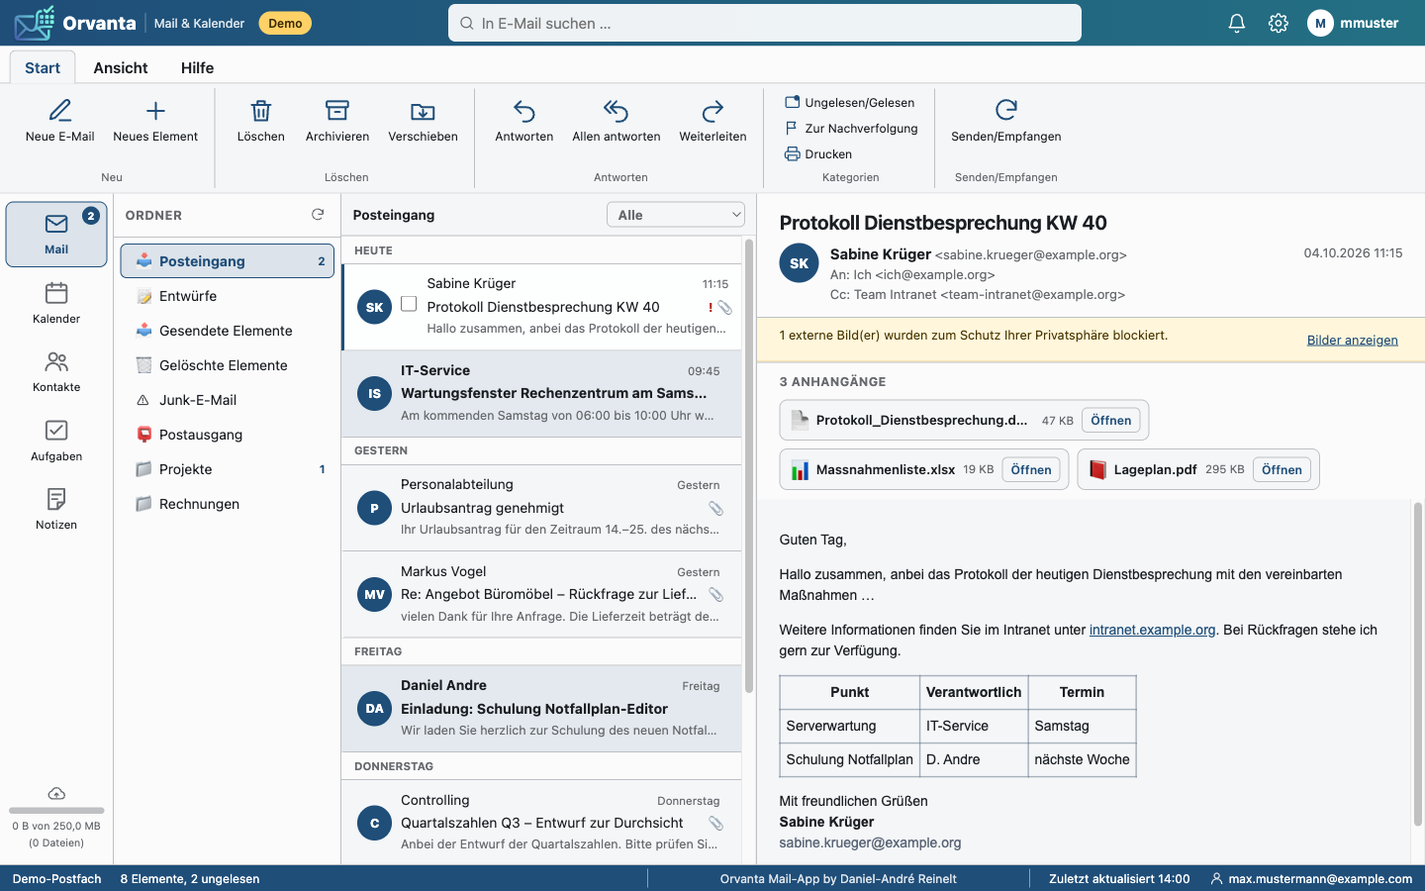
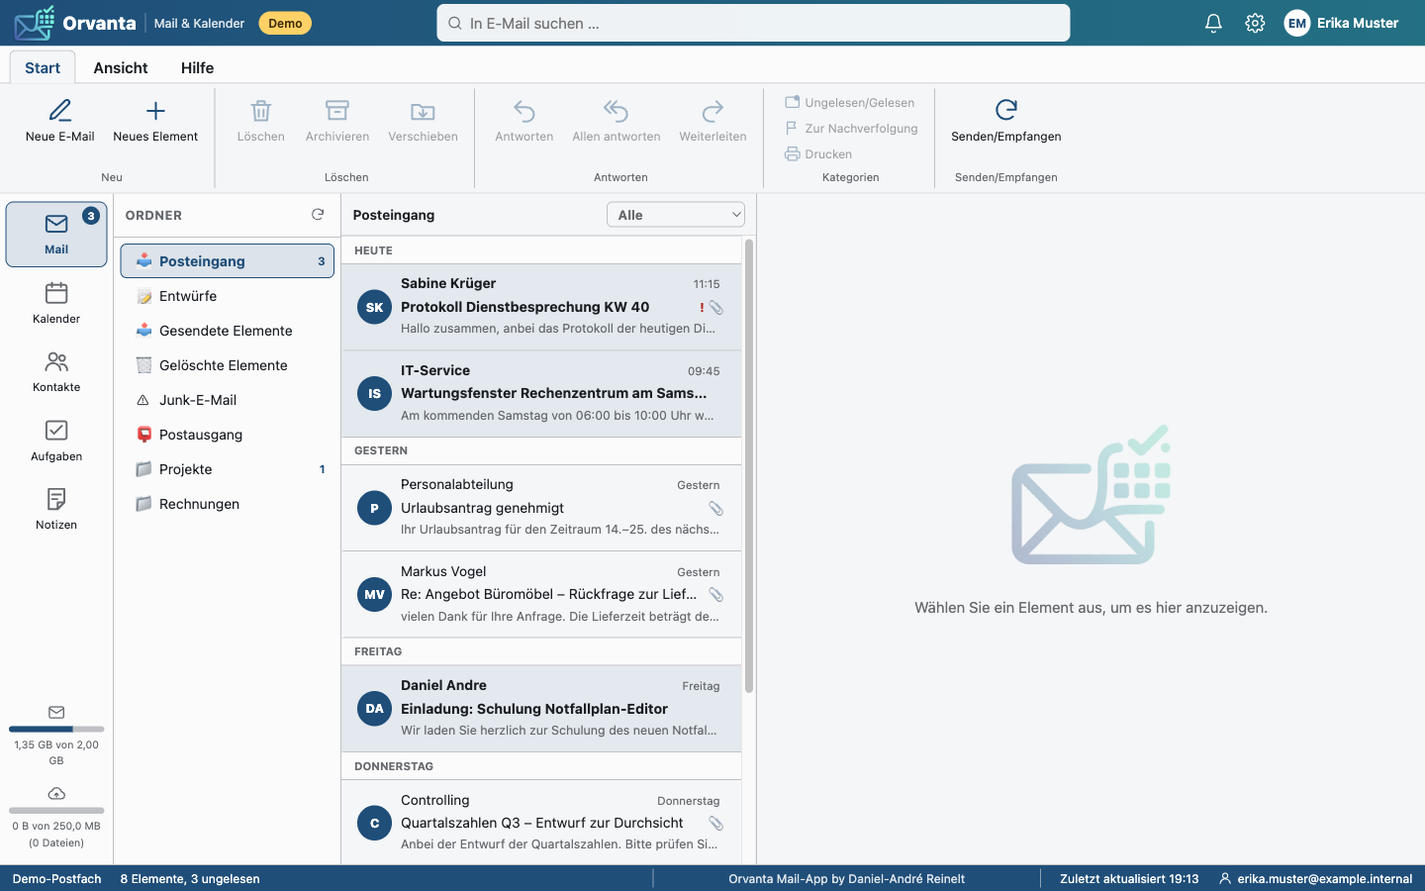
Orvanta: Postfachbelegung des Exchange in der Speicheranzeige
Die Speicheranzeige unten links zeigt neben dem Anhang-Zwischenspeicher
jetzt auch die Belegung des Exchange-Postfachs (PR_MESSAGE_SIZE_EXTENDED
am Stammordner gegen Sende-/Empfangsgrenze bzw. Warnschwelle). Der
Einstellungsdialog nennt die einzelnen Grenzen. Große Quota-Balken im
Dialog waren durch einen CSS-Konflikt unsichtbar und sind nun sichtbar.

diff --git a/public/assets/js/orvanta.js b/public/assets/js/orvanta.js
@@ -351,6 +351,9 @@
 
     function fmtBytes(bytes) {
         bytes = Number(bytes) || 0;
+        if (bytes >= 1073741824) {
+            return (bytes / 1073741824).toFixed(2).replace('.', ',') + ' GB';
+        }
         if (bytes >= 1048576) {
             return (bytes / 1048576).toFixed(1).replace('.', ',') + ' MB';
         }
@@ -3107,7 +3110,7 @@
 
     function loadQuota() {
         return api('/zwischenspeicher').then(renderQuota).catch(function () {
-            $$('[data-ov-quota-text]').forEach(function (node) {
+            $$('[data-ov-quota-text], [data-ov-mailbox-text]').forEach(function (node) {
                 node.textContent = 'Nicht verfügbar';
             });
         });
@@ -3122,6 +3125,48 @@
         $$('[data-ov-quota-text]').forEach(function (node) {
             node.textContent = fmtBytes(usage.used) + ' von ' + fmtBytes(usage.quota) + ' (' + usage.items + ' Datei' + (usage.items === 1 ? '' : 'en') + ')';
         });
+        renderMailboxUsage(usage.mailbox);
+    }
+
+    // Postfachbelegung auf dem Exchange (Groesse aller Ordner, Sendegrenze)
+    function renderMailboxUsage(mailbox) {
+        var detail = $('[data-ov-mailbox-detail]');
+        if (!mailbox) {
+            $$('[data-ov-mailbox-fill]').forEach(function (node) {
+                node.style.width = '0';
+            });
+            $$('[data-ov-mailbox-text]').forEach(function (node) {
+                node.textContent = 'Nicht verfügbar';
+            });
+            if (detail) {
+                detail.hidden = true;
+            }
+            return;
+        }
+        var limit = Number(mailbox.quota) || Number(mailbox.receive_limit) || Number(mailbox.warning) || 0;
+        var percent = Math.max(0, Math.min(100, Number(mailbox.percent) || 0));
+        var text = limit > 0 ? fmtBytes(mailbox.used) + ' von ' + fmtBytes(limit) : fmtBytes(mailbox.used) + ' (ohne Grenze)';
+        $$('[data-ov-mailbox-fill]').forEach(function (node) {
+            node.style.width = (limit > 0 ? percent : 0) + '%';
+            node.classList.toggle('ov-quota__fill--warn', limit > 0 && percent >= 80);
+        });
+        $$('[data-ov-mailbox-text]').forEach(function (node) {
+            node.textContent = text;
+        });
+        if (detail) {
+            var parts = [];
+            if (Number(mailbox.warning) > 0) {
+                parts.push('Warnung ab ' + fmtBytes(mailbox.warning));
+            }
+            if (Number(mailbox.quota) > 0) {
+                parts.push('Senden gesperrt ab ' + fmtBytes(mailbox.quota));
+            }
+            if (Number(mailbox.receive_limit) > 0) {
+                parts.push('Empfang gesperrt ab ' + fmtBytes(mailbox.receive_limit));
+            }
+            detail.textContent = parts.join(' · ');
+            detail.hidden = parts.length === 0;
+        }
     }
 
     function clearCache() {

diff --git a/public/assets/css/orvanta.css b/public/assets/css/orvanta.css
@@ -573,8 +573,11 @@
 .ov-noteeditor__foot { display: flex; align-items: center; justify-content: space-between; gap: .8rem; padding: .5rem 1rem; border-top: 1px solid rgba(0, 0, 0, .1); background: rgba(255, 255, 255, .45); }
 .ov-noteeditor__meta { font-size: .78rem; opacity: .8; }
 
-/* Zwischenspeicher-Quota */
+/* Speicheranzeigen (Postfach, Zwischenspeicher-Quota) */
 .ov-quota { display: flex; flex-direction: column; gap: .25rem; width: 100%; }
+.ov-quota--large { flex-direction: row; }
+.ov-quota--large .ov-quota__bar { flex: 1 1 auto; }
+.ov-quota--large > span:last-child { white-space: nowrap; }
 .ov-quota__text { font-size: .66rem; color: var(--ov-muted); }
 .ov-quota--large .ov-quota__text { font-size: .85rem; }
 .ov-quota__fill--warn { background: #d97706; }

diff --git a/app/Services/Orvanta/OrvantaExchangeService.php b/app/Services/Orvanta/OrvantaExchangeService.php
@@ -66,6 +66,48 @@ final class OrvantaExchangeService
         ];
     }
 
+    /**
+     * Belegung des Postfachs auf dem Exchange: Groesse aller Elemente
+     * (PR_MESSAGE_SIZE_EXTENDED am Stammordner) sowie die vom Server
+     * gesetzten Grenzen „Warnung“ (PR_STORAGE_QUOTA_LIMIT), „Senden
+     * verbieten“ (PR_PROHIBIT_SEND_QUOTA) und „Empfang verbieten“
+     * (PR_PROHIBIT_RECEIVE_QUOTA), jeweils in Byte. 0 = keine Grenze bekannt.
+     *
+     * @return array{used:int,quota:int,warning:int,receive_limit:int,percent:int}
+     */
+    public function mailboxUsage(string $user): array
+    {
+        $xpath = $this->call(
+            '<m:GetFolder><m:FolderShape><t:BaseShape>IdOnly</t:BaseShape><t:AdditionalProperties>'
+            . '<t:ExtendedFieldURI PropertyTag="0x0E08" PropertyType="Long"/>'
+            . '<t:ExtendedFieldURI PropertyTag="0x3FF5" PropertyType="Integer"/>'
+            . '<t:ExtendedFieldURI PropertyTag="0x666E" PropertyType="Integer"/>'
+            . '<t:ExtendedFieldURI PropertyTag="0x666A" PropertyType="Integer"/>'
+            . '</t:AdditionalProperties></m:FolderShape><m:FolderIds><t:DistinguishedFolderId Id="root"/></m:FolderIds></m:GetFolder>',
+            $user
+        );
+        $values = [];
+        foreach (EwsXml::elements($xpath, '//t:Folder/t:ExtendedProperty') as $property) {
+            // Exchange schreibt Tags ohne fuehrende Nullen (z. B. "0xe08")
+            $tag = (int) hexdec(ltrim(strtolower(EwsXml::attr($xpath, 't:ExtendedFieldURI', 'PropertyTag', $property)), 'x0'));
+            $values[$tag] = max(0, (int) EwsXml::text($xpath, 't:Value', $property));
+        }
+        $used = $values[0x0E08] ?? 0;
+        // Quota-Werte liefert Exchange in Kilobyte
+        $warning = ($values[0x3FF5] ?? 0) * 1024;
+        $quota = ($values[0x666E] ?? 0) * 1024;
+        $receive = ($values[0x666A] ?? 0) * 1024;
+        $limit = $quota > 0 ? $quota : ($receive > 0 ? $receive : $warning);
+
+        return [
+            'used' => $used,
+            'quota' => $quota,
+            'warning' => $warning,
+            'receive_limit' => $receive,
+            'percent' => $limit > 0 ? (int) min(100, round($used * 100 / $limit)) : 0,
+        ];
+    }
+
     // ------------------------------------------------------------------
     // Ordner
     // ------------------------------------------------------------------

diff --git a/app/Services/Orvanta/DemoExchangeTransport.php b/app/Services/Orvanta/DemoExchangeTransport.php
@@ -20,6 +20,7 @@ final class DemoExchangeTransport implements ExchangeTransportInterface
     public function post(string $url, string $xml, array $options): array
     {
         $body = match (true) {
+            str_contains($xml, '<m:GetFolder>') && str_contains($xml, 'DistinguishedFolderId Id="root"/>') => $this->mailboxUsage(),
             str_contains($xml, '<m:GetFolder>') && str_contains($xml, 'DistinguishedFolderId Id="inbox"/></m:FolderIds>') && !str_contains($xml, 'Id="drafts"') => $this->getInbox(),
             str_contains($xml, '<m:GetFolder>') => $this->getKnownFolders(),
             str_contains($xml, '<m:FindFolder') => $this->findFolders(),
@@ -60,6 +61,17 @@ final class DemoExchangeTransport implements ExchangeTransportInterface
         };
 
         return $this->envelope('<m:CreateItemResponse><m:ResponseMessages><m:CreateItemResponseMessage ResponseClass="Success"><m:ResponseCode>NoError</m:ResponseCode><m:Items><t:' . $type . '><t:ItemId Id="demo-new-' . substr(sha1($xml), 0, 8) . '" ChangeKey="CK1"/></t:' . $type . '></m:Items></m:CreateItemResponseMessage></m:ResponseMessages></m:CreateItemResponse>');
+    }
+
+    private function mailboxUsage(): string
+    {
+        // 1,35 GB belegt; Warnung 1,9 GB, Senden gesperrt ab 2 GB, Empfang ab 2,3 GB (Werte in KB)
+        return $this->envelope('<m:GetFolderResponse><m:ResponseMessages><m:GetFolderResponseMessage ResponseClass="Success"><m:ResponseCode>NoError</m:ResponseCode><m:Folders><t:Folder><t:FolderId Id="demo-root" ChangeKey="A"/>'
+            . '<t:ExtendedProperty><t:ExtendedFieldURI PropertyTag="0xe08" PropertyType="Long"/><t:Value>1449551462</t:Value></t:ExtendedProperty>'
+            . '<t:ExtendedProperty><t:ExtendedFieldURI PropertyTag="0x3ff5" PropertyType="Integer"/><t:Value>1992294</t:Value></t:ExtendedProperty>'
+            . '<t:ExtendedProperty><t:ExtendedFieldURI PropertyTag="0x666e" PropertyType="Integer"/><t:Value>2097152</t:Value></t:ExtendedProperty>'
+            . '<t:ExtendedProperty><t:ExtendedFieldURI PropertyTag="0x666a" PropertyType="Integer"/><t:Value>2411724</t:Value></t:ExtendedProperty>'
+            . '</t:Folder></m:Folders></m:GetFolderResponseMessage></m:ResponseMessages></m:GetFolderResponse>');
     }
 
     private function getInbox(): string

diff --git a/views/orvanta/index.php b/views/orvanta/index.php
@@ -182,6 +182,11 @@ $initials = mb_substr($initials !== '' ? $initials : '?', 0, 2);
                 </button>
             <?php } ?>
             <div class="ov-modules__spacer"></div>
+            <div class="ov-modules__quota" data-ov-mailbox title="Belegung des Postfachs auf dem Exchange-Server">
+                <?= $icon('mail') ?>
+                <span class="ov-quota__bar"><span class="ov-quota__fill" data-ov-mailbox-fill></span></span>
+                <span class="ov-quota__text" data-ov-mailbox-text>–</span>
+            </div>
             <div class="ov-modules__quota" data-ov-quota title="Zwischenspeicher für Anhänge im Nextcloud-Bereich">
                 <?= $icon('cloud') ?>
                 <span class="ov-quota__bar"><span class="ov-quota__fill" data-ov-quota-fill></span></span>
@@ -400,6 +405,10 @@ $initials = mb_substr($initials !== '' ? $initials : '?', 0, 2);
         <div class="ov-dialog__form">
             <div class="ov-dialog__head"><h2><?= $icon('settings') ?> Einstellungen</h2><button type="button" class="ov-mini ov-mini--light" data-ov-dialog-close aria-label="Schließen"><?= $icon('close') ?></button></div>
             <div class="ov-dialog__body ov-settings">
+                <h3>Postfach auf dem Exchange-Server</h3>
+                <p class="ov-muted">Belegter Speicher Ihres Postfachs (alle Ordner) und die vom Server gesetzte Grenze. Bei Erreichen der Grenze können keine E-Mails mehr gesendet werden.</p>
+                <div class="ov-quota ov-quota--large"><span class="ov-quota__bar"><span class="ov-quota__fill" data-ov-mailbox-fill></span></span><span data-ov-mailbox-text>–</span></div>
+                <p class="ov-muted" data-ov-mailbox-detail hidden></p>
                 <h3>Zwischenspeicher für Anhänge</h3>
                 <p class="ov-muted">Geöffnete Anhänge werden in Ihrem Nextcloud-Bereich im Ordner <code><?= Html::e((string) $orvanta['cacheFolder']) ?>/Zwischenspeicher</code> abgelegt. Bei Erreichen des Quotas werden die ältesten Dateien automatisch entfernt.</p>
                 <div class="ov-quota ov-quota--large"><span class="ov-quota__bar"><span class="ov-quota__fill" data-ov-quota-fill></span></span><span data-ov-quota-text>–</span></div>

diff --git a/tests/Unit/OrvantaServiceTest.php b/tests/Unit/OrvantaServiceTest.php
@@ -379,6 +379,27 @@ Runner::test('Orvanta: Kalender, Kontakte, Aufgaben und Notizen liefern Elemente
     Assert::contains('Raum 1', $parts['transport']->last());
 });
 
+Runner::test('Orvanta: Postfachbelegung wird aus dem Stammordner gelesen (Quota in KB)', function (): void {
+    $parts = orvantaExchange();
+    $usage = $parts['exchange']->mailboxUsage('demo@demo.local');
+    Assert::contains('DistinguishedFolderId Id="root"', $parts['transport']->last());
+    Assert::contains('PropertyTag="0x0E08"', $parts['transport']->last());
+    Assert::same(1449551462, $usage['used']);
+    Assert::same(2097152 * 1024, $usage['quota']);
+    Assert::same(1992294 * 1024, $usage['warning']);
+    Assert::same(2411724 * 1024, $usage['receive_limit']);
+    Assert::same(67, $usage['percent']);
+
+    // Ohne Grenzen: nur Groesse, Prozent 0
+    $parts['transport']->forced = ['status' => 200, 'error' => null, 'body' => '<?xml version="1.0"?><s:Envelope xmlns:s="http://schemas.xmlsoap.org/soap/envelope/"><s:Body xmlns:m="http://schemas.microsoft.com/exchange/services/2006/messages" xmlns:t="http://schemas.microsoft.com/exchange/services/2006/types">'
+        . '<m:GetFolderResponse><m:ResponseMessages><m:GetFolderResponseMessage ResponseClass="Success"><m:ResponseCode>NoError</m:ResponseCode><m:Folders><t:Folder><t:FolderId Id="r" ChangeKey="A"/>'
+        . '<t:ExtendedProperty><t:ExtendedFieldURI PropertyTag="0xe08" PropertyType="Long"/><t:Value>4096</t:Value></t:ExtendedProperty></t:Folder></m:Folders></m:GetFolderResponseMessage></m:ResponseMessages></m:GetFolderResponse></s:Body></s:Envelope>'];
+    $usage = $parts['exchange']->mailboxUsage('demo@demo.local');
+    Assert::same(4096, $usage['used']);
+    Assert::same(0, $usage['quota']);
+    Assert::same(0, $usage['percent']);
+});
+
 Runner::test('Orvanta: EwsXml-Hilfsfunktionen', function (): void {
     Assert::same('<t:DistinguishedFolderId Id="inbox"/>', EwsXml::folderId('inbox'));
     Assert::contains('<t:FolderId Id="AAMk', EwsXml::folderId('AAMkAGI2'));

diff --git a/app/Controllers/OrvantaApiController.php b/app/Controllers/OrvantaApiController.php
@@ -199,7 +199,7 @@ final class OrvantaApiController extends Controller
 
     public function cacheUsage(Request $request): Response
     {
-        return $this->handle($request, fn (array $access): array => Container::orvantaAttachments()->usage($access['uid']));
+        return $this->handle($request, fn (array $access): array => Container::orvantaAttachments()->usage($access['uid']) + ['mailbox' => $this->mailboxUsage($access)]);
     }
 
     public function cacheClear(Request $request): Response
@@ -207,8 +207,24 @@ final class OrvantaApiController extends Controller
         return $this->handle($request, function (array $access): array {
             $removed = Container::orvantaAttachments()->clear($access['uid']);
 
-            return Container::orvantaAttachments()->usage($access['uid']) + ['removed' => $removed, 'message' => 'Der Zwischenspeicher wurde geleert.'];
+            return Container::orvantaAttachments()->usage($access['uid']) + ['mailbox' => $this->mailboxUsage($access), 'removed' => $removed, 'message' => 'Der Zwischenspeicher wurde geleert.'];
         }, true);
+    }
+
+    /**
+     * Postfachbelegung auf dem Exchange; Fehler blockieren die Anzeige des
+     * Zwischenspeichers nicht (null = nicht ermittelbar).
+     *
+     * @param array<string,mixed> $access
+     * @return array{used:int,quota:int,warning:int,receive_limit:int,percent:int}|null
+     */
+    private function mailboxUsage(array $access): ?array
+    {
+        try {
+            return Container::orvantaExchange()->mailboxUsage($access['impersonate']);
+        } catch (Throwable) {
+            return null;
+        }
     }
 
     // ------------------------------------------------------------------

diff --git a/docs/orvanta-referenz.md b/docs/orvanta-referenz.md
@@ -141,7 +141,7 @@ Alle App- und API-Routen liegen **außerhalb** der Admin-Gruppen in
 | POST | `/api/orvanta/mail/aktion` | `mailAction` | `action` = `read`/`unread`/`flag`/`unflag`/`move`/`delete`/`delete_permanent` |
 | POST | `/api/orvanta/anhang/link` | `attachmentLink` | Signierte URL + Öffnungsmodus |
 | POST | `/api/orvanta/anhang/nextcloud` | `attachmentToNextcloud` | Dauerhaft in Nextcloud speichern |
-| GET | `/api/orvanta/zwischenspeicher` | `cacheUsage` | Belegung |
+| GET | `/api/orvanta/zwischenspeicher` | `cacheUsage` | Belegung Zwischenspeicher + Postfach (`mailbox`) |
 | POST | `/api/orvanta/zwischenspeicher/leeren` | `cacheClear` | Zwischenspeicher leeren |
 | GET | `/api/orvanta/kalender?start=&end=` | `calendar` | Termine im Zeitraum (≤ 100 Tage) |
 | GET / POST | `/api/orvanta/kalender/termin` | `event` / `saveEvent` | Termin lesen / anlegen oder ändern |
@@ -280,6 +280,7 @@ Vorprüfungen des Service als 422/404).
 | Methode | EWS-Operation | Besonderheiten |
 | --- | --- | --- |
 | `testConnection()` | `GetFolder` inbox | ohne Impersonation = Dienstkonto selbst; liest `ServerVersionInfo` |
+| `mailboxUsage()` | `GetFolder` `root` mit `ExtendedFieldURI` `0x0E08` (PR_MESSAGE_SIZE_EXTENDED, Byte), `0x3FF5` (PR_STORAGE_QUOTA_LIMIT), `0x666E` (PR_PROHIBIT_SEND_QUOTA), `0x666A` (PR_PROHIBIT_RECEIVE_QUOTA; alle in KB) | Tags werden per `hexdec()` normalisiert (Exchange schreibt `0xe08`); `percent` gegen Sendegrenze, ersatzweise Empfangsgrenze, dann Warnschwelle; fehlende Grenzen = 0 |
 | `folders()` | `GetFolder` (Systemordner, `$strict = false`) + `FindFolder` Deep ab `msgfolderroot` (≤ 500) | nur `FolderClass` `IPF.Note*`; Sortierung Systemordner (`MAIL_FOLDERS`) vor Namen |
 | `messages()` | `FindItem` Shallow, `IndexedPageItemView`, absteigend nach `DateTimeReceived`, optional `QueryString` (AQS) | `limit` 1–200 (API: 1–100), `has_more` aus `IncludesLastItemInRange` |
 | `message()` | `GetItem` mit `BodyType = HTML` | Text-Body → `nl2br(htmlspecialchars())`, sonst `MailHtmlSanitizer::clean()`; externe Bilder landen in `data-blocked-src`, eingebettete in `data-cid` (Anhänge liefern `content_id`) |
@@ -329,7 +330,8 @@ Vorprüfungen des Service als 422/404).
 | `mail/aktion` | `action, ids[]` (oder `id`), bei `move` zusätzlich `folder` | `{ok, count}` |
 | `anhang/link` | `attachment_id, name` | `{url, mode, expires_in}` |
 | `anhang/nextcloud` | `attachment_id, folder` (optionaler Unterordner) | `{ok, message, path, target}` (Fehler → 502) |
-| `kalender` | Query `start`, `end` (Standard: aktuelle Woche) | `{items[], start, end}`; Element: `id, change_key, subject, start, end, all_day, location, organizer, free_busy, type, reminder_set, reminder_minutes, is_meeting, my_response, categories` |
+| `zwischenspeicher` | – | `{used, quota, items, folder, percent, mailbox}`; `mailbox` = `{used, quota, warning, receive_limit, percent}` in Byte oder `null`, wenn Exchange die Werte nicht liefert (Fehler blockieren die Antwort nicht) |
+| `zwischenspeicher/leeren` | – | wie `zwischenspeicher` + `{removed, message}` | Query `start`, `end` (Standard: aktuelle Woche) | `{items[], start, end}`; Element: `id, change_key, subject, start, end, all_day, location, organizer, free_busy, type, reminder_set, reminder_minutes, is_meeting, my_response, categories` |
 | `kalender/termin` (POST) | `id` (leer = neu), `change_key, subject, start, end, all_day, location, body, reminder` (Standard 15, < 0 = aus), `free_busy, required[], optional[]` | `{id[, change_key], message}`; löst `resync()` aus |
 | `kontakte/kontakt` (POST) | `id, given_name, surname, company, job_title, department, email, phone, mobile, notes` | `{id, message}` |
 | `aufgaben/aufgabe` (POST) | `id, subject, body, importance, status` und optional `due, start, reminder, percent` (Unix-Sekunden bzw. %) | `{id, message}` |
@@ -618,7 +620,7 @@ Dependency-freier Runner: `php tests/run.php` (Syntaxprüfung zusätzlich
 | --- | --- |
 | `tests/Unit/OrvantaAiTest.php` | `RecordingAiTransport`; Verfügbarkeit ohne Konfiguration (keine Anfrage), `GET /models` mit Datei-Cache und Fingerabdruck (URL\|Modell), `improve()` (Anfrageaufbau, Kontext, Token, `max_tokens`), Verfeinern (Assistenten-Turn), Bearer-Schlüssel, Validierung 422, 503 ohne KI, 502 bei Timeout/500/401/ungültigem JSON/leeren `choices`, `stripMarkers()`, Zähler und pseudonyme Auswertung (keine SIDs), `OrvantaAiCharts` (Zeitraum, SVG ohne `style`, leere Daten) |
 | `tests/Unit/OrvantaSignatureTest.php` | Validierung (Pflichtfelder, Modus, Reihenfolge, Gruppen-Dedupe, Präfix-Leerzeichen), Speichern/Laden/Löschen, Zuordnung (Reihenfolge, inaktiv, Schreibweise), Darstellung (AD-Daten, Präfix + Durchwahl vs. komplette Rufnummer, Farben, Logo als `data:`-URI, Sanitizer-Durchlauf), Fallbacks (ohne Logo/Telefonbuch/inaktiver Eintrag), `extension()`, `append()` (Dedupe, vor Zitat), `strip()` |
-| `tests/Unit/OrvantaServiceTest.php` | Konfiguration (Defaults, EWS-URL, Validierung, verschlüsseltes Kennwort), EWS-Umschlag (Impersonation, Version), Nachrichten lesen/senden, KI-Marker werden beim Senden/Entwurf/Termin entfernt, Transportfehler → `OrvantaException`, 503 ohne Server, Kalender/Kontakte/Aufgaben/Notizen, `EwsXml`, Sanitizer, Erinnerungen (Sync, fällig, erledigt, Snooze, verschobene Termine, Sync-Fehler), `relative()`, `openMode()`, Token-Ablauf und Zweckbindung, Quota/FIFO, Quota 0, Laden mit Zwischenspeicher, Nextcloud-Ablage, Viewer-Konfiguration, Empfänger-Vorschläge (Verlauf zuerst, Dubletten, Nextcloud-Lesen/Fehler, versteckte Dateinamen) |
+| `tests/Unit/OrvantaServiceTest.php` | Konfiguration (Defaults, EWS-URL, Validierung, verschlüsseltes Kennwort), EWS-Umschlag (Impersonation, Version), Nachrichten lesen/senden, KI-Marker werden beim Senden/Entwurf/Termin entfernt, Transportfehler → `OrvantaException`, 503 ohne Server, Kalender/Kontakte/Aufgaben/Notizen, Postfachbelegung (`mailboxUsage()`, Quota in KB, ohne Grenzen), `EwsXml`, Sanitizer, Erinnerungen (Sync, fällig, erledigt, Snooze, verschobene Termine, Sync-Fehler), `relative()`, `openMode()`, Token-Ablauf und Zweckbindung, Quota/FIFO, Quota 0, Laden mit Zwischenspeicher, Nextcloud-Ablage, Viewer-Konfiguration, Empfänger-Vorschläge (Verlauf zuerst, Dubletten, Nextcloud-Lesen/Fehler, versteckte Dateinamen) |
 
 Testbausteine: `RecordingExchangeTransport` (zeichnet SOAP auf, antwortet mit
 `DemoExchangeTransport` oder `$forced`), `orvantaPdo()` (SQLite-Schema

diff --git a/docs/orvanta.md b/docs/orvanta.md
@@ -75,6 +75,16 @@ Typografie, Statusleiste):
   Autoren-Hinweis „Orvanta Mail-App by Daniel-André Reinelt“ und – sobald die
   KI-Unterstützung verfügbar ist – ein kleines Roboter-Symbol (Klick öffnet die
   Kurzanleitung, siehe Abschnitt 7).
+- **Speicheranzeigen unten links:** Zwei kleine Balken unter den Modulen
+  zeigen die Belegung des **Exchange-Postfachs** (Größe aller Ordner gegen die
+  vom Server gesetzte Sendegrenze, ab 80 % orange) und des
+  **Anhang-Zwischenspeichers** in Nextcloud. Der Einstellungsdialog (Zahnrad)
+  nennt zusätzlich die Grenzen „Warnung ab“, „Senden gesperrt ab“ und
+  „Empfang gesperrt ab“. Ist für das Postfach keine Grenze gesetzt, erscheint
+  nur die Größe („ohne Grenze“); ist Exchange nicht erreichbar, „Nicht
+  verfügbar“.
+
+![Orvanta – Einstellungen mit Postfachbelegung](screenshots/91-orvanta-einstellungen-postfach.png)
 
 Alle Styles liegen in `public/assets/css/orvanta.css`. Da die Content Security
 Policy inline-`style`-Attribute verbietet, setzt das Frontend Styles
@@ -289,9 +299,10 @@ Die Vorschau im Adminbereich zeigt die Vorlage mit Beispieldaten
   Nextcloud-Bereich des Benutzers im Ordner `<cache_folder>/` (Dateiname mit
   Hash-Präfix) abgelegt und in `orvanta_cache_items` registriert. Überschreitet der Benutzer
   `cache_quota_mb`, werden die ältesten Einträge automatisch entfernt
-  (FIFO). Die Belegung erscheint in der Statusleiste der App
-  (`GET /api/orvanta/zwischenspeicher`), kann vom Benutzer geleert werden und
-  wird im Adminbereich je Benutzer aufgelistet.
+  (FIFO). Die Belegung erscheint unten links in der Modulleiste und im
+  Einstellungsdialog (`GET /api/orvanta/zwischenspeicher`, liefert zusätzlich
+  die Postfachbelegung auf dem Exchange als `mailbox`), kann vom Benutzer
+  geleert werden und wird im Adminbereich je Benutzer aufgelistet.
 - **„In Nextcloud speichern“:** Legt den Anhang dauerhaft unter
   `<cache_folder>/Anhänge/` ab (zählt nicht zum Orvanta-Quota, sondern zum
   Nextcloud-Kontingent des Benutzers). Die Schaltfläche erscheint nur, wenn

diff --git a/agentsindex.md b/agentsindex.md
@@ -522,7 +522,7 @@ Migrationen liegen in `database/migrations/` (numerisch sortiert, werden von `mi
 - `README.md` – ausführliche Projektdokumentation (Funktionsumfang, Docker, Konfiguration, Betrieb, Sicherheit).
 - `docs/manuals/anwenderhandbuch.pdf` / `administratorhandbuch.pdf` (Quellen als HTML unter `docs/manuals/`).
 - `docs/projektdokumentation/` – IT-Projektdokumentation (HTML-Quelle, PDF, Abbildungen); PDF neu erzeugen mit `./docs/projektdokumentation/build.sh` (nur Docker nötig).
-- `docs/screenshots/` – Screenshots der öffentlichen und Admin-Bereiche (30–56: Office, Office-Apps, AD-Gruppen und lokale KI; 60–65: Zertifikate; 70–75: Cold-Tier-Erweiterung; 80–87: Orvanta, aufgenommen mit einem isolierten Docker-Stack und Demodaten); `docs/assets/orvanta-ai/` – Screenshots der KI-Unterstützung in Orvanta (mit llama.cpp-Testendpunkt, Profil `ki`).
+- `docs/screenshots/` – Screenshots der öffentlichen und Admin-Bereiche (30–56: Office, Office-Apps, AD-Gruppen und lokale KI; 60–65: Zertifikate; 70–75: Cold-Tier-Erweiterung; 80–91: Orvanta (91: Einstellungsdialog mit Postfachbelegung), aufgenommen mit einem isolierten Docker-Stack und Demodaten); `docs/assets/orvanta-ai/` – Screenshots der KI-Unterstützung in Orvanta (mit llama.cpp-Testendpunkt, Profil `ki`).
 - `docs/installation.md` – Assistierte Installation mit `scripts/install.sh`: Ablauf, Optionen, Bedienung, abgefragte Variablen, Abschlussbericht, Fehlerbehebung.
 - `docs/office.md` – Office-Erweiterung: Einrichtung, Architektur, Updates, AD-Gruppen/SSO, Kachel, lokale KI, Sicherung, SNMP.
 - `docs/orvanta.md` – Mail- und Kalender-App Orvanta (Exchange On-Premise via EWS): Funktionsumfang, Oberfläche, Architektur/Code-Landkarte, Datenbank, Routen, Exchange-Anbindung (Impersonation, Anmeldeverfahren, Admin-Einstellungen), Anhänge/Zwischenspeicher/Nextcloud, Terminerinnerungen, KI-Unterstützung beim Schreiben (Kontextmenü, hellblaue Blöcke, Nutzungsbericht), Demo-Modus, Tests, Sicherheit. **Vor Änderungen an Orvanta lesen.**
